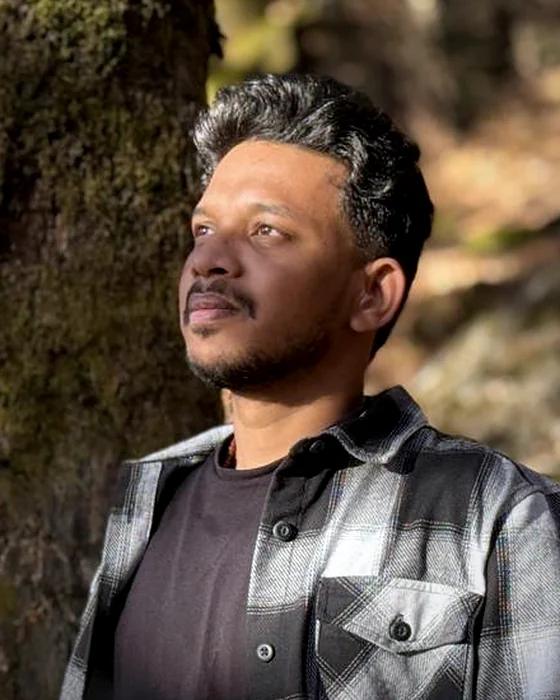
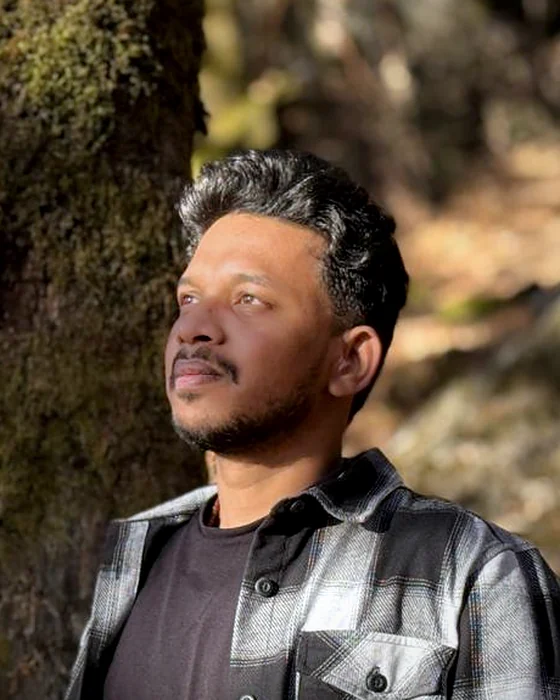
Add files via upload

diff --git a/index.html b/index.html
@@ -462,7 +462,7 @@ td.range b{white-space:nowrap}
     <p class="linkrow"><a href="#projects">Projects</a><span aria-hidden="true">/</span><a href="#writing">Writing</a><span aria-hidden="true">/</span><a href="https://github.com/pawankalyan-gurram">GitHub</a><span aria-hidden="true">/</span><a href="#contact">Email</a></p>
   </div>
   <div class="photo">
-    <picture><source srcset="pawan-kalyan.webp" type="image/webp"><img src="pawan-kalyan.jpg" alt="Pawan Kalyan" width="560" height="700" decoding="async" fetchpriority="high"></picture>
+    <picture><source srcset="pawan-kalyan.webp?v=2" type="image/webp"><img src="pawan-kalyan.jpg?v=2" alt="Pawan Kalyan" width="560" height="700" decoding="async" fetchpriority="high"></picture>
   </div>
 </div>
 
